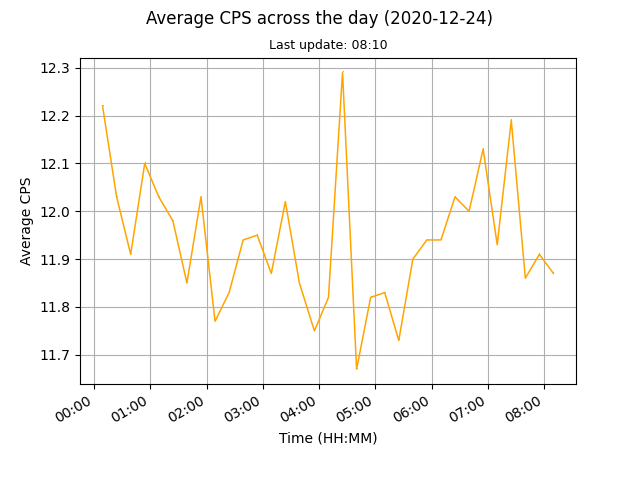
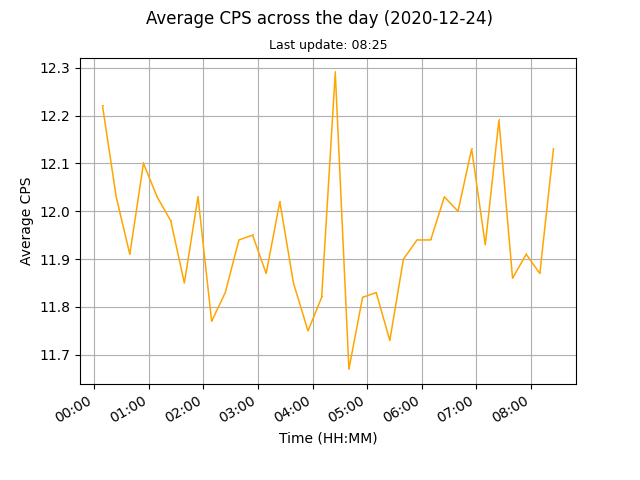
update data

diff --git a/docs/index.html b/docs/index.html
@@ -14,7 +14,7 @@
 <body>
 
 	<h1>Hello World!</h1>
-	<h2>Current cps: 11.87</h2>
+	<h2>Current cps: 12.13</h2>
 
 	<p><img src="images/monthly.png" alt="Mothly avg cps data"><img src="images/daily.png" alt="Daily avg cps data"></p>
 
